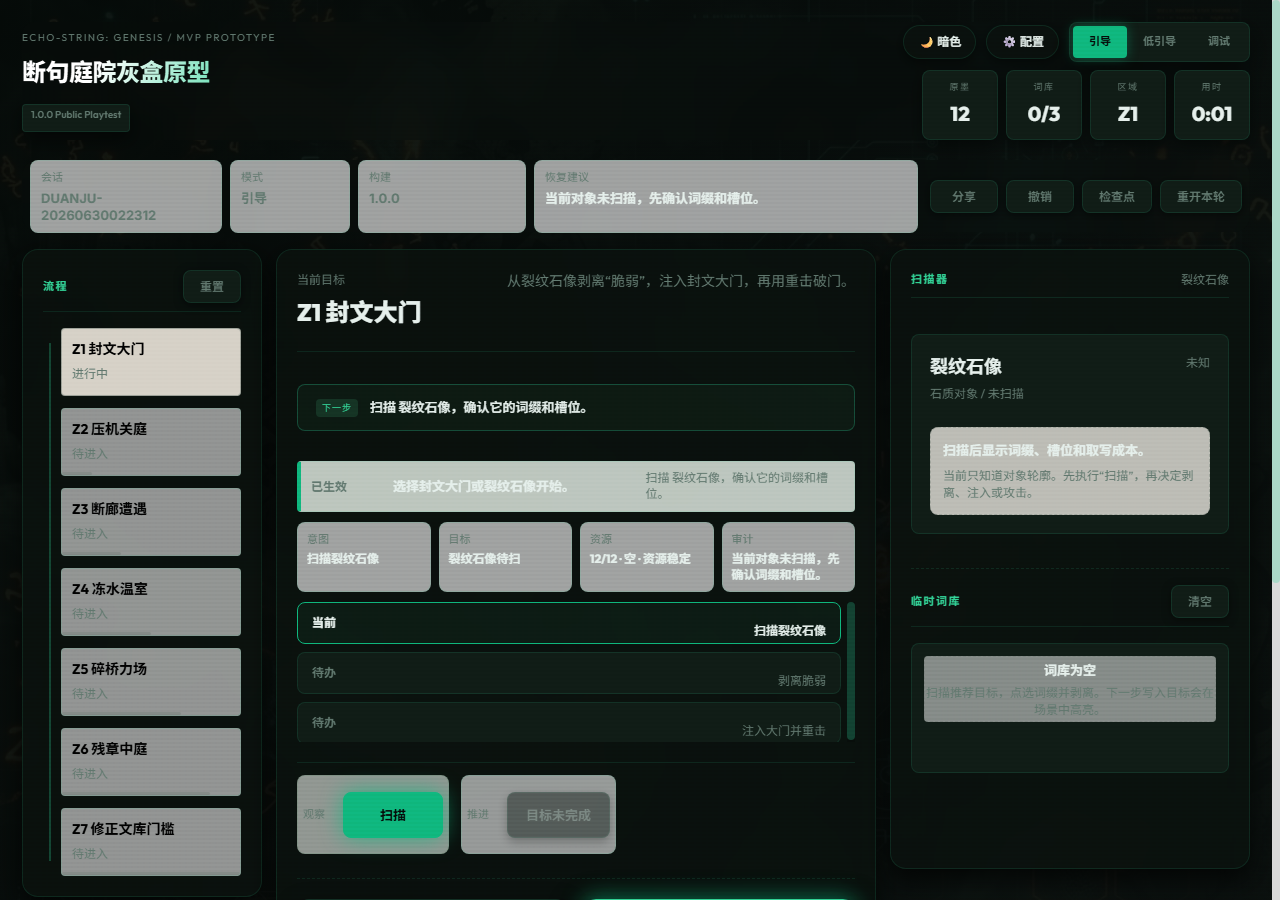
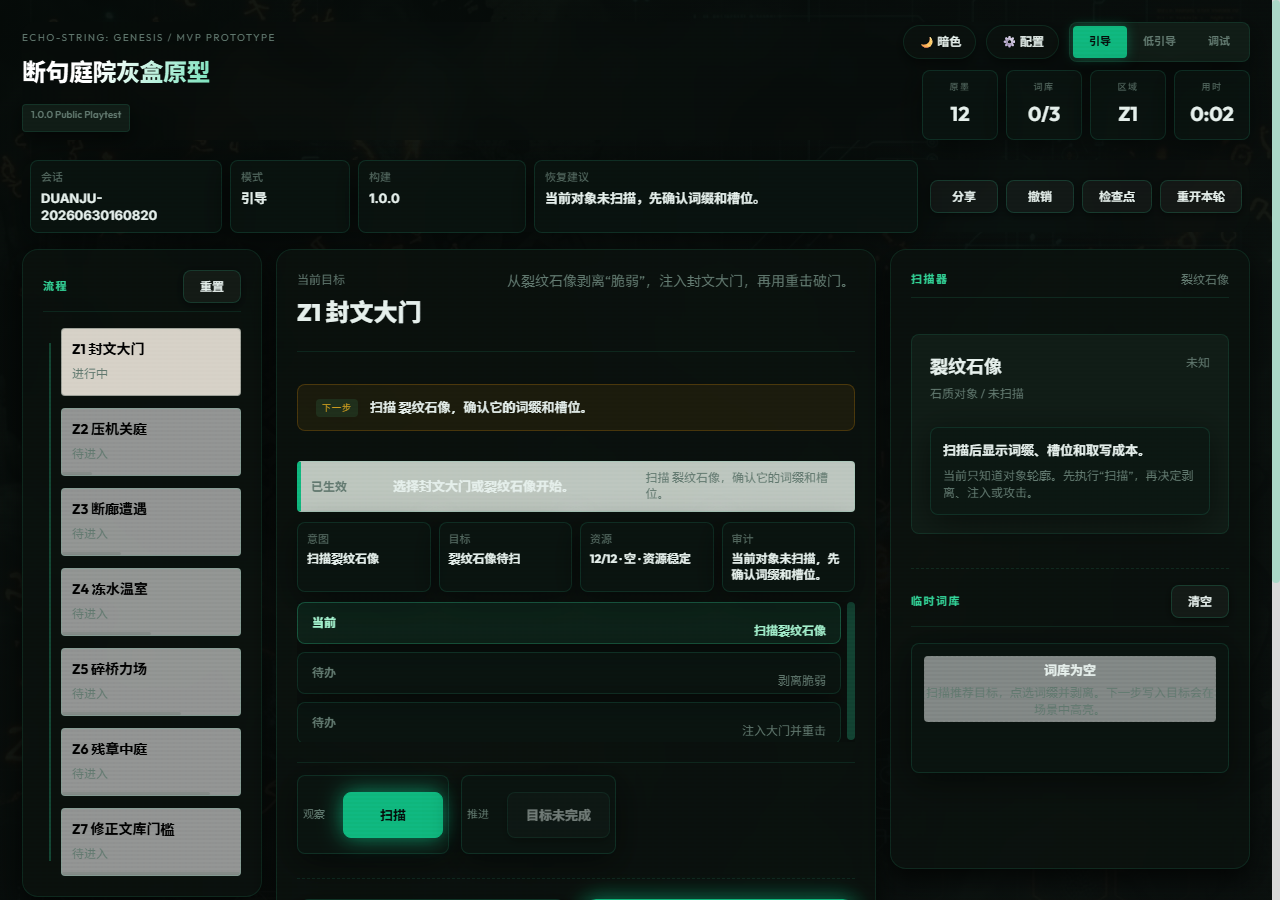
Style: redesign dark theme using premium transparent glassmorphism, resolving the flat grey blocky cards and text contrast issues

diff --git a/prototype/styles.css b/prototype/styles.css
@@ -3699,6 +3699,146 @@ body.regression-mode .metrics-box {
   min-width: 0 !important;
 }
 
+/* ==========================================================================
+   💎 Premium Dark Theme Glassmorphism Overrides (Refining visual polish)
+   ========================================================================== */
+
+/* 1. Global Card & Panel Backgrounds: Replace hardcoded white-grey with premium dark glass */
+body:not(.theme-light) .status-card,
+body:not(.theme-light) .session-chip,
+body:not(.theme-light) .decision-chip,
+body:not(.theme-light) .step-item,
+body:not(.theme-light) .action-group,
+body:not(.theme-light) .event-log,
+body:not(.theme-light) .reflection-box,
+body:not(.theme-light) .metrics-box,
+body:not(.theme-light) .inventory-list,
+body:not(.theme-light) .preview-box,
+body:not(.theme-light) .scan-gate,
+body:not(.theme-light) .boss-gauge,
+body:not(.theme-light) .boss-phase-plan span,
+body:not(.theme-light) .zone-summary-table {
+  background: rgba(10, 22, 17, 0.7) !important;
+  border: 1px solid rgba(52, 211, 153, 0.15) !important;
+  backdrop-filter: blur(12px) !important;
+  box-shadow: 0 8px 32px rgba(0, 0, 0, 0.5) !important;
+}
+
+/* 2. Text Color Contrast Fixes for Dark Theme Chips */
+body:not(.theme-light) .session-status {
+  color: var(--muted) !important;
+}
+body:not(.theme-light) .session-chip span,
+body:not(.theme-light) .decision-chip span,
+body:not(.theme-light) .status-card span {
+  color: var(--muted) !important;
+  opacity: 0.8 !important;
+  font-weight: 500 !important;
+}
+body:not(.theme-light) .session-chip strong,
+body:not(.theme-light) .decision-chip strong,
+body:not(.theme-light) .status-card strong {
+  color: var(--ink) !important;
+  font-weight: 700 !important;
+}
+
+/* 3. Dark Theme Button Adjustments: Frosted glass buttons instead of flat grey */
+body:not(.theme-light) .quiet-button,
+body:not(.theme-light) .action-button {
+  background: rgba(255, 255, 255, 0.04) !important;
+  border: 1px solid rgba(52, 211, 153, 0.18) !important;
+  color: var(--ink) !important;
+  backdrop-filter: blur(8px) !important;
+}
+body:not(.theme-light) .quiet-button:hover,
+body:not(.theme-light) .action-button:hover {
+  background: rgba(52, 211, 153, 0.12) !important;
+  border-color: rgba(52, 211, 153, 0.4) !important;
+  color: #ffffff !important;
+  box-shadow: 0 0 15px rgba(52, 211, 153, 0.15) !important;
+}
+
+/* 4. Cyber Holographic Object Cards */
+body:not(.theme-light) .object-token {
+  background: rgba(10, 22, 17, 0.6) !important;
+  border: 1px solid rgba(52, 211, 153, 0.18) !important;
+  border-radius: var(--radius-lg) !important;
+  backdrop-filter: blur(12px) !important;
+  box-shadow: 0 12px 30px rgba(0, 0, 0, 0.5) !important;
+  color: var(--ink) !important;
+}
+body:not(.theme-light) .object-token:hover {
+  border-color: rgba(52, 211, 153, 0.45) !important;
+  background: rgba(52, 211, 153, 0.05) !important;
+  box-shadow: 0 16px 36px rgba(0, 0, 0, 0.65), var(--glow-green) !important;
+}
+body:not(.theme-light) .object-token.selected {
+  border-color: var(--accent) !important;
+  background: rgba(16, 185, 129, 0.08) !important;
+  box-shadow: 0 16px 40px rgba(0, 0, 0, 0.7), var(--glow-green-strong) !important;
+}
+
+/* Object Card Header, Badges and Watermarks */
+body:not(.theme-light) .object-card-top {
+  background: transparent !important;
+  border: none !important;
+  margin-bottom: 12px !important;
+}
+body:not(.theme-light) .type-badge {
+  background: rgba(255, 255, 255, 0.08) !important;
+  border: none !important;
+  border-radius: 4px !important;
+  color: var(--muted) !important;
+  font-weight: 600 !important;
+  font-size: 11px !important;
+  padding: 2px 8px !important;
+}
+body:not(.theme-light) .object-state {
+  background: rgba(16, 185, 129, 0.15) !important;
+  border: 1px solid rgba(16, 185, 129, 0.25) !important;
+  border-radius: 4px !important;
+  color: #34d399 !important;
+  font-weight: 600 !important;
+  font-size: 11px !important;
+  padding: 1px 8px !important;
+}
+body:not(.theme-light) .object-token .glyph {
+  color: rgba(52, 211, 153, 0.035) !important; /* Faint watermark */
+  font-size: 84px !important;
+}
+
+/* Tags Inside Object Cards */
+body:not(.theme-light) .mini-tag-label {
+  background: rgba(255, 255, 255, 0.05) !important;
+  border: 1px solid rgba(52, 211, 153, 0.15) !important;
+  color: var(--ink) !important;
+  border-radius: 4px !important;
+}
+
+/* 5. Left Column "intent cards" (intent, target, resources, audit) */
+body:not(.theme-light) .guidance-strip {
+  background: rgba(245, 158, 11, 0.08) !important;
+  border: 1px solid rgba(245, 158, 11, 0.22) !important;
+  color: #fbbf24 !important;
+}
+body:not(.theme-light) .guidance-strip .label {
+  color: #fbbf24 !important;
+  opacity: 0.8 !important;
+}
+
+/* Done step history items styling */
+body:not(.theme-light) .step-item.done {
+  border-color: rgba(16, 185, 129, 0.2) !important;
+  background: rgba(16, 185, 129, 0.04) !important;
+  color: #34d399 !important;
+}
+body:not(.theme-light) .step-item.active {
+  border-color: rgba(52, 211, 153, 0.3) !important;
+  background: rgba(52, 211, 153, 0.08) !important;
+  color: #a7f3d0 !important;
+}
+
+
 
 
 

diff --git a/production/latest_1_0_0_summary.md b/production/latest_1_0_0_summary.md
@@ -1,6 +1,6 @@
 # 回归套件报告摘要
 
-生成时间：2026-06-30 02:23:37
+生成时间：2026-06-30 16:11:07
 报告来源：`production\latest_1_0_0_report.json`
 
 ## 1. 总览

diff --git a/production/report_comparison.md b/production/report_comparison.md
@@ -1,6 +1,6 @@
 # 试玩报告对比
 
-生成时间：2026-06-30 02:23:49
+生成时间：2026-06-30 16:11:24
 报告范围：`production\latest*_report.json`
 
 | 报告 | 完成 | 模式 | 当前区 | 总用时 | 扫描 | 剥离 | 注入 | 反应 | 误操作 | 撤销 | 反馈 | 失败 | 最长区 |